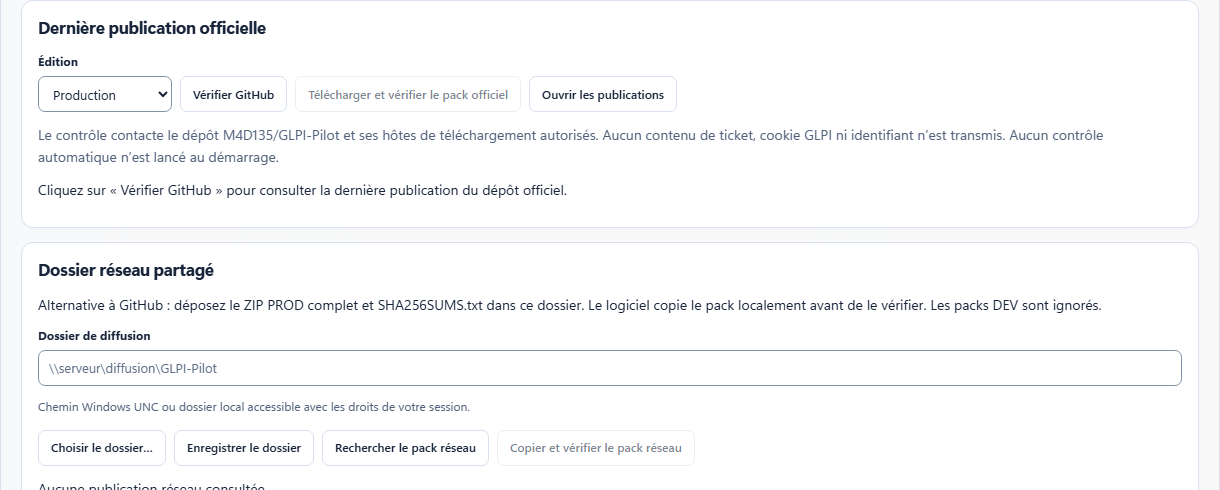
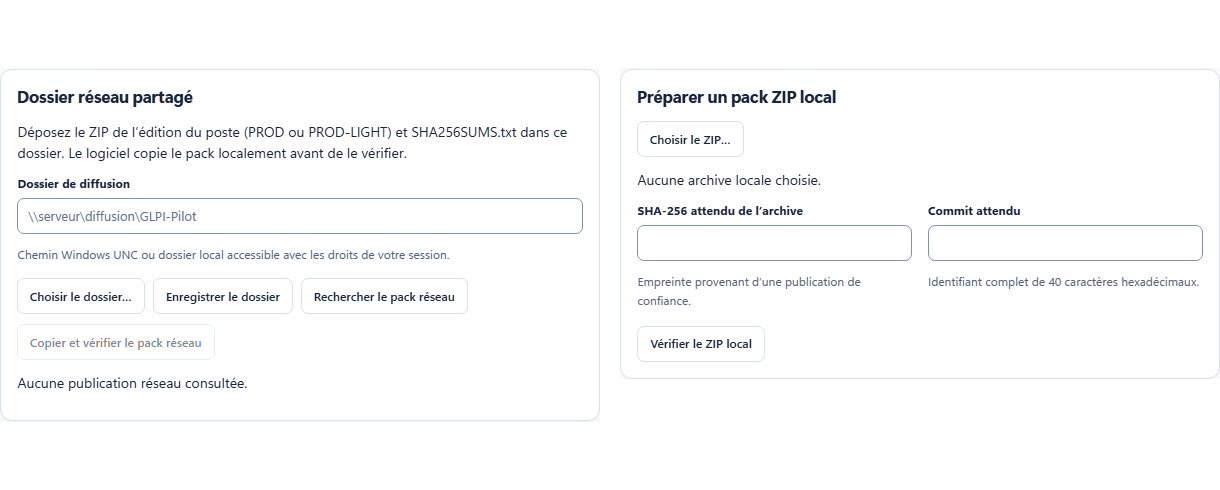
Guides : actualiser la mise à jour réseau et ZIP sans GitHub

diff --git a/guides/compose_update_figure.js b/guides/compose_update_figure.js
@@ -1,0 +1,27 @@
+#!/usr/bin/env node
+// Assemble deux extraits intacts de l'interface, sans redimensionnement ni retouche du texte.
+// node guides/compose_update_figure.js <dossier des deux captures> <figure.png>
+'use strict';
+const fs = require('fs');
+const path = require('path');
+const { decode, encode } = require('./crop_figures.js');
+
+const [source, destination] = process.argv.slice(2);
+if (!source || !destination) throw new Error('usage : compose_update_figure.js <captures> <figure.png>');
+const panels = ['shared-update-network.png', 'shared-update-local.png']
+  .map(name => decode(fs.readFileSync(path.join(source, name))));
+const { channels, color } = panels[0];
+for (const panel of panels) {
+  if (panel.width !== 600 || panel.height > 490 || panel.channels !== channels || panel.color !== color)
+    throw new Error(`Extrait ${panel.width}×${panel.height} (couleur ${panel.color}) : attendu 600 pixels de large, au plus 490 de haut, avec le même format PNG.`);
+}
+const figure = { width: 1220, height: 490, channels, color, pixels: Buffer.alloc(1220 * 490 * channels, 255) };
+const top = Math.floor((figure.height - Math.max(...panels.map(panel => panel.height))) / 2);
+panels.forEach((panel, index) => {
+  for (let y = 0; y < panel.height; y++)
+    panel.pixels.copy(figure.pixels, ((top + y) * figure.width + index * 620) * channels,
+      y * panel.width * channels, (y + 1) * panel.width * channels);
+});
+fs.mkdirSync(path.dirname(destination), { recursive: true });
+fs.writeFileSync(destination, encode(figure, 0, 0, figure.width, figure.height));
+console.log(`${destination} : 1220×490, deux extraits sans redimensionnement`);

diff --git a/tests/WebViewChecks/Program.SharedUpdates.cs b/tests/WebViewChecks/Program.SharedUpdates.cs
@@ -78,6 +78,7 @@ internal static partial class Program
         Require(!operations.Any(op => op.StartsWith("update.shared.") || op.StartsWith("update.sites.")) && await Button("Copier et vérifier le pack réseau").IsDisabledAsync(),
             "Opening Updates never discovers a share or patch automatically and cannot prepare an unreviewed network pack.");
         Require(await Button("Exporter un patch de sites").CountAsync() == 0, "The Standard interface does not expose the Admin reference export command.");
+        await CaptureSharedUpdateGuideAsync(page);
         await Button("Choisir le dossier…").ClickAsync(); await Idle();
         await Button("Rechercher le pack réseau").ClickAsync(); await Idle();
         Require(await page.GetByText("Enregistrez le dossier modifié avant de consulter sa publication.", new() { Exact = true }).IsVisibleAsync()
@@ -133,5 +134,46 @@ internal static partial class Program
             "The demonstration explicitly disables real share and site-patch access.");
         Require(errors.IsEmpty && externalRequests == 0, "The complete network and reference journey has no JavaScript errors or external web requests.");
         await actualBridge.DisposeAsync(); await delivery;
+    }
+
+    private static async Task CaptureSharedUpdateGuideAsync(IPage page)
+    {
+        var directory = Environment.GetEnvironmentVariable("GLPI_GUIDE_CAPTURES");
+        if (string.IsNullOrEmpty(directory)) return;
+        await GuideCaptureAsync(page, "shared-updates-initial");
+        // Two unchanged cards from the real interface, before any share lookup or local ZIP selection.
+        // The guide places these excerpts side by side; the intervening site-patch card is documented separately.
+        ILocator Card(string heading) => page.Locator("section.card").Filter(new()
+            { Has = page.GetByRole(AriaRole.Heading, new() { Name = heading, Exact = true }) });
+        try
+        {
+            var viewportWidth = 875;
+            foreach (var (heading, file) in new[] { ("Dossier réseau partagé", "shared-update-network"), ("Préparer un pack ZIP local", "shared-update-local") })
+            {
+                var captured = false;
+                for (var attempt = 0; attempt < 4; attempt++)
+                {
+                    if (viewportWidth < 480 || viewportWidth > 1200)
+                        throw new InvalidOperationException("The guide capture would leave the supported viewport range.");
+                    await page.SetViewportSizeAsync(viewportWidth, 1000);
+                    var png = await Card(heading).ScreenshotAsync(new() { Animations = ScreenshotAnimations.Disabled });
+                    // Measure the actual PNG: the screenshot can differ from a preceding CSS bounding box.
+                    var width = System.Buffers.Binary.BinaryPrimitives.ReadInt32BigEndian(png.AsSpan(16, 4));
+                    Console.WriteLine($"Guide capture {file}: viewport {viewportWidth}, PNG width {width}.");
+                    if (width == 600)
+                    {
+                        await File.WriteAllBytesAsync(Path.Combine(directory, file + ".png"), png);
+                        captured = true; break;
+                    }
+                    viewportWidth += 600 - width;
+                }
+                if (!captured) throw new InvalidOperationException("The guide card did not settle at 600 pixels.");
+            }
+        }
+        finally
+        {
+            await page.SetViewportSizeAsync(1440, 1000);
+            await page.Locator(".workspace").EvaluateAsync("element => element.scrollTop = 0");
+        }
     }
 }

diff --git a/guides/LIRE.md b/guides/LIRE.md
@@ -14,4 +14,14 @@ Recadrage des figures : `figures.json` donne, pour chaque figure tirée d'une ca
 
 Thème clair pour toutes les figures : le workflow manuel `guide-captures.yml` relance les suites existantes avec `GLPI_GUIDE_CAPTURES` ; chaque capture de test est alors doublée d'une copie en thème clair (même attribut data-theme que l'application), sans changer les tests (run 40833196058 pour cette édition).
 
+Exception actualisée pour la 3.14.1 : `admin-mise-a-jour.png` réunit deux extraits intacts de l'écran, « Dossier réseau partagé » et « Préparer un pack ZIP local », sans redimensionnement. Le parcours Standard `--shared-updates-only` les capture en thème clair dès l'ouverture, avant toute recherche réseau ou sélection de ZIP ; la carte intermédiaire « Patch des sites » ne figure pas dans ce montage. Le workflow conserve aussi la vue complète `shared-updates-initial.png`. Pour reproduire le montage de 1220×490 :
+
+    node guides/compose_update_figure.js <artefact>/light/--shared-updates-only guides/images/admin-mise-a-jour.png
+
+Les documents de `DOC/` restent les instantanés 3.13.6 ; cette actualisation des sources ne les régénère pas.
+
+Pour ne refaire que cette figure, lancer `guide-captures.yml` avec `updates_only=true` ; le mode par défaut conserve les suites Standard et Admin complètes.
+
+Figure de mise à jour vérifiée le 09/11/2026 : [run 42691884868](https://github.com/M4D135/GLPI-Pilot/actions/runs/42691884868), sources `305d8cb3dd53476b52fdaedc3e5e4997039720f6`, 17/17 contrôles du parcours réseau et sites réussis. Les deux extraits sont conservés pixel pour pixel dans la figure.
+
 Captures : vraie interface de GLPI Pilot 3.13.1 avec son moteur C#, tirées des artefacts de la qualification complète de main 7e52ab3 (run 40823652475) ; certaines viennent des EXE Windows réels (`native-webview`). Les deux vues du menu (déplié et replié) sont des rendus locaux des vrais modules web. Données fictives ou de démonstration uniquement. Le guide technicien ne montre aucun indicateur de mode de test : contrôle par `swift ocr_image.swift images/*.png`. Chaque libellé cité entre « » a été retrouvé dans les sources de l'interface.

diff --git a/guides/administrateur.md b/guides/administrateur.md
@@ -501,7 +501,7 @@ La mise à jour remplace le pack sans toucher aux données de travail. L'assista
 
 > [!RESULTAT] « Tous les fichiers du pack ont été contrôlés. L’installation reste à votre initiative. » précède l'installation. Après un échec, l'ancien pack est restauré ; si un fichier reste verrouillé, la sauvegarde est conservée et la récupération est signalée.
 
-![« Mise à jour et retour arrière » : un dossier de diffusion réseau ou un ZIP local.](fig:admin-mise-a-jour)
+![Deux extraits de « Mise à jour et retour arrière » : un dossier de diffusion réseau ou un ZIP local.](fig:admin-mise-a-jour)
 
 ## Retour arrière
 
